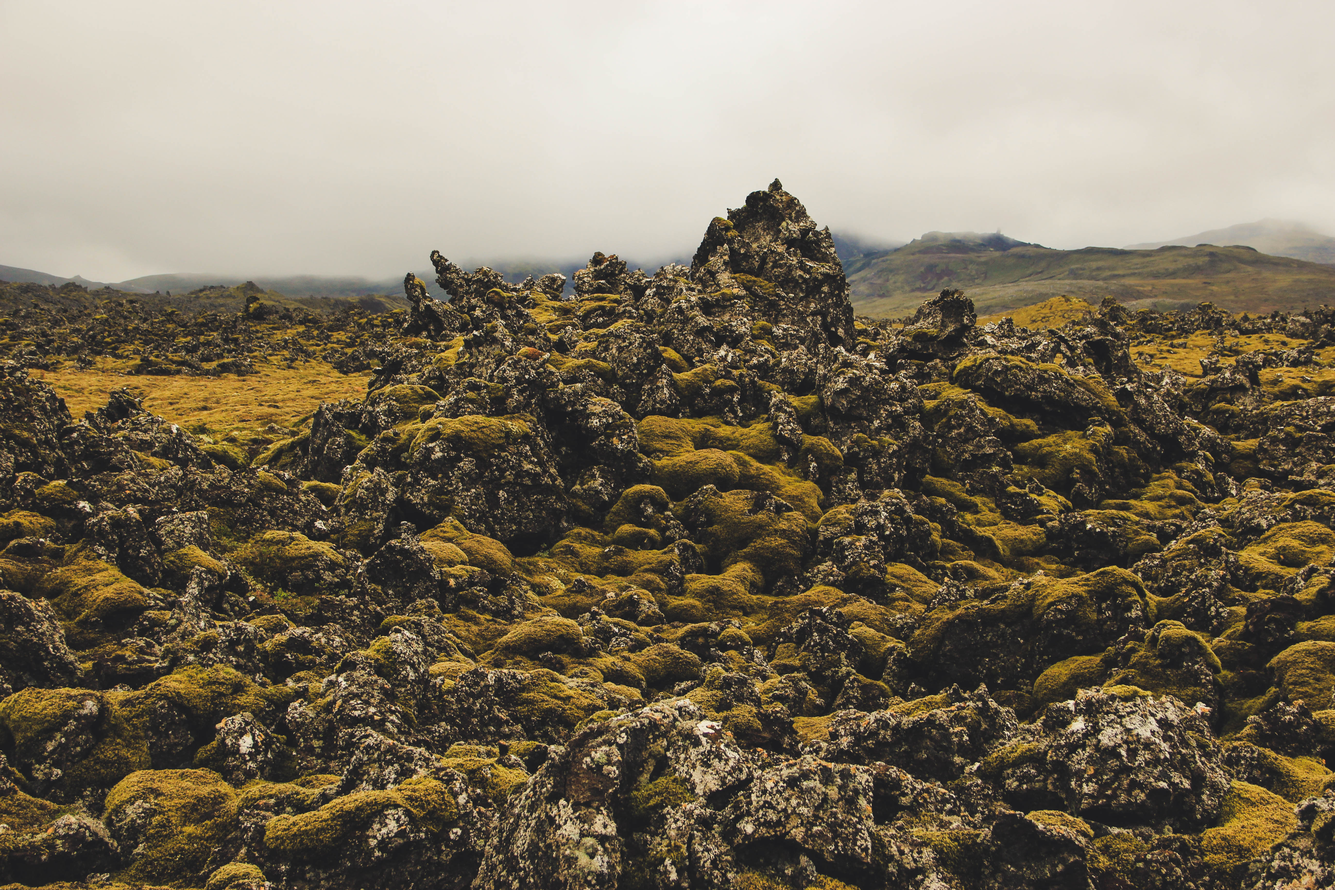
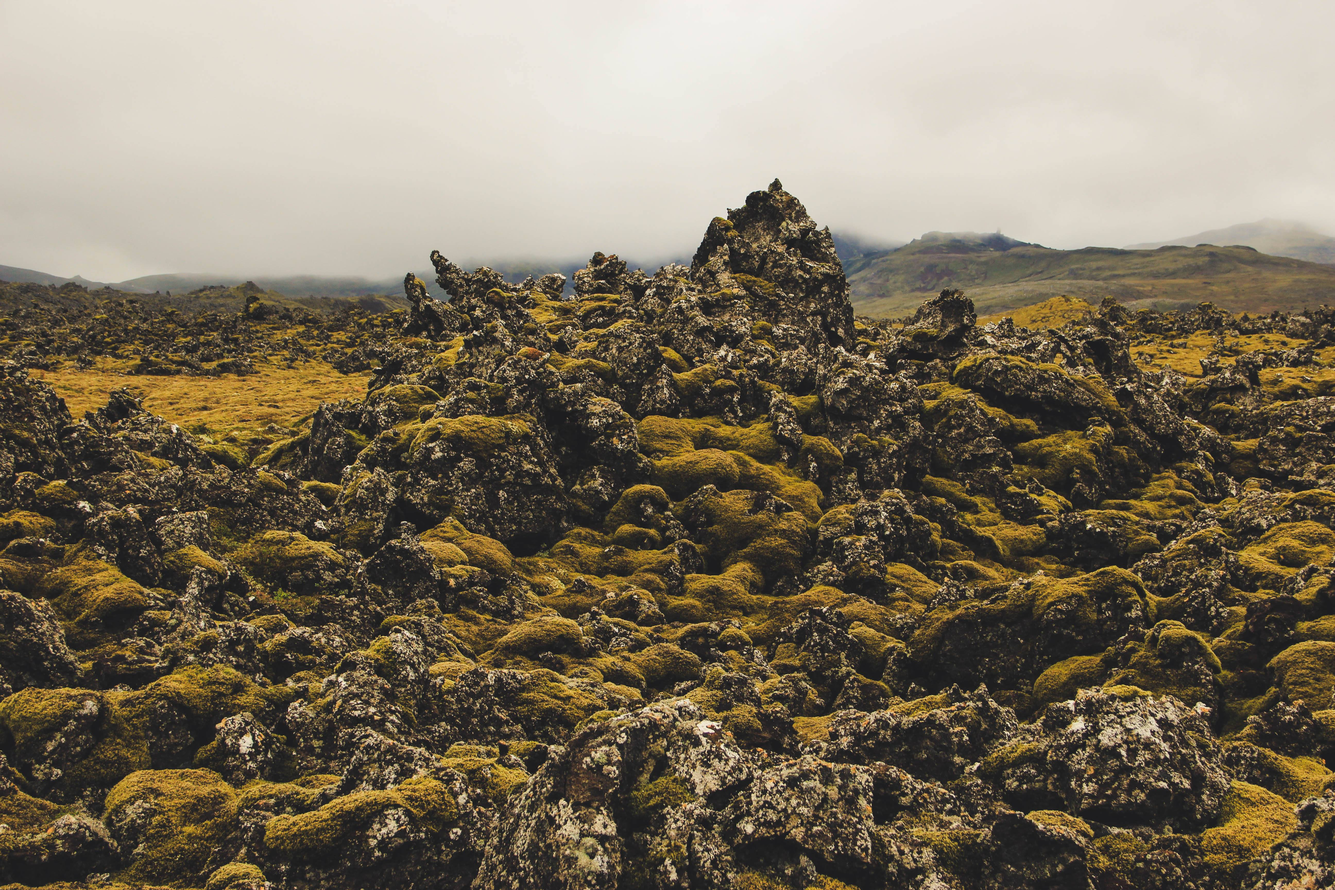
Changed photos to progressive JPG and added travel menu

diff --git a/src/pages/Travels.js b/src/pages/Travels.js
@@ -9,9 +9,43 @@ const StyledTravels = styled.div`
   justify-content: center;
   align-items: center;
 
-  .photo-container {
-    padding: 10%;
+  .content-container {
+    display: flex;
+    justify-content: flex-end;
   }
+
+  .photos-menu {
+    display: flex;
+    align-items: flex-end;
+    flex-direction: column;
+    padding-top: 7%;
+  }
+
+  .fixed-menu {
+    position: fixed;
+  }
+
+  .country {
+    text-align: right;
+    letter-spacing: 2px;
+    line-height: 2;
+    color: grey;
+    cursor: pointer;
+    transition: color 200ms ease-in-out;
+  }
+
+  .country:hover {
+    color: ${({ theme }) => theme.primaryAccent};
+  }
+
+  .photos-container {
+    max-width: 80%;
+  }
+
+  .photo-container {
+    padding: 10% 10% 10% 2%;
+  }
+
   img {
     max-width: 100%;
     max-height: 100%;
@@ -20,6 +54,7 @@ const StyledTravels = styled.div`
 `;
 
 const numImgs = 9;
+const countries = ["iceland", "hawaii", "san francisco", "new york", "toronto", "japan"]
 
 const imgs = [...Array(numImgs).keys()].map(i => {
   return(
@@ -37,7 +72,16 @@ function Travels() {
           <h1>travels</h1>
         </div>
         <div className="content-container">
-          { imgs }
+          <div className="photos-menu">
+            <div className="fixed-menu">
+              {countries.map(country => (
+                <div className="country">{country}</div>
+              ))}
+            </div>
+          </div>
+          <div className="photos-container">
+            { imgs }
+          </div>
         </div>
       </div>
     </StyledTravels>

diff --git a/src/global.js b/src/global.js
@@ -77,24 +77,20 @@ export const GlobalStyles = createGlobalStyle`
 
   .page-enter {
     opacity: 0;
-    transform: scale(1.1);
   }
 
   .page-enter-active {
     opacity: 1;
-    transform: scale(1);
     transition: opacity 300ms, transform 300ms;
   }
 
   .page-exit {
     opacity: 1;
-    transform: scale(1);
   }
 
   .page-exit-active {
     opacity: 0;
-    transform: scale(0.9);
-    transition: opacity 300ms, transform 300ms;
+    transition: opacity 300ms;
   }
 
   .page-container {
